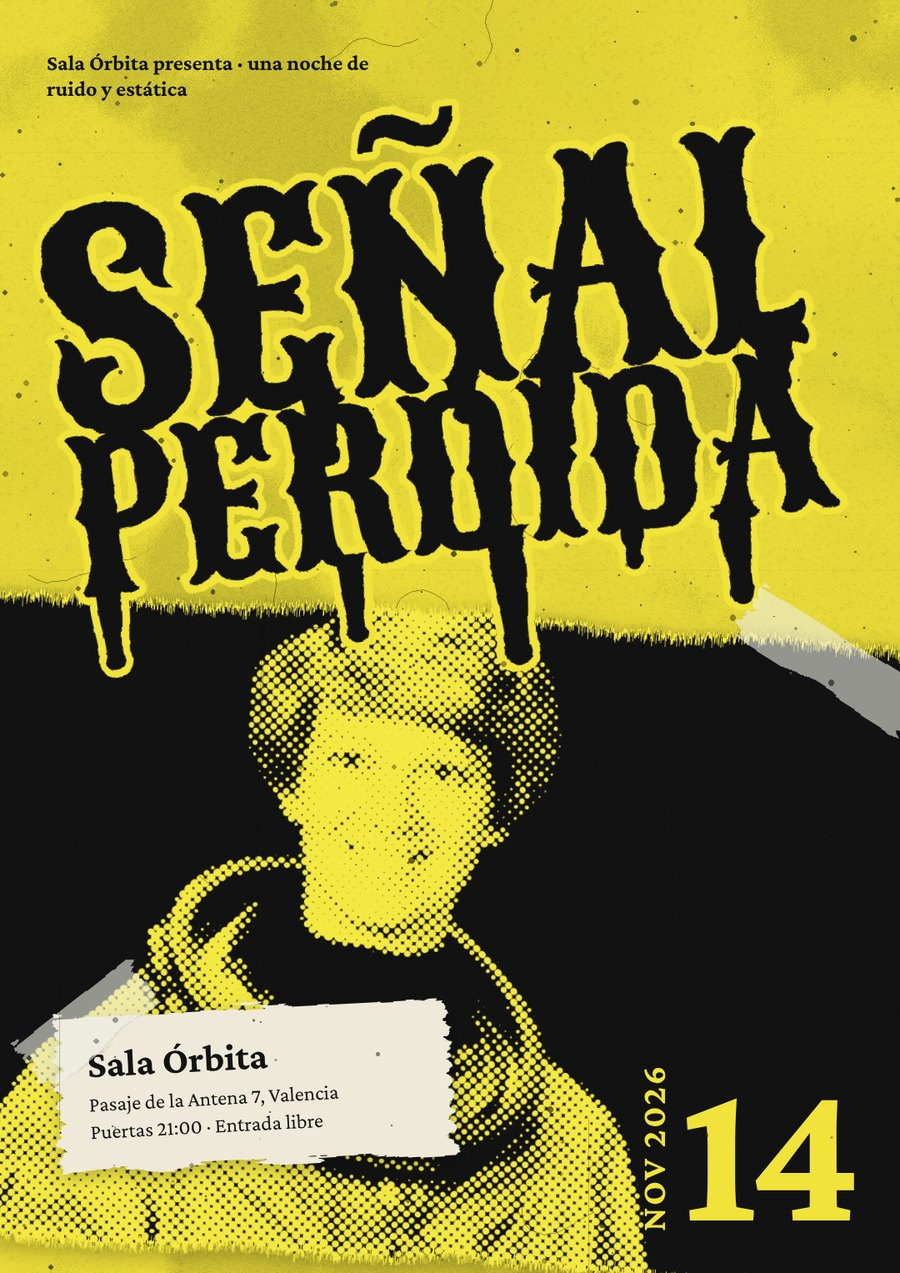
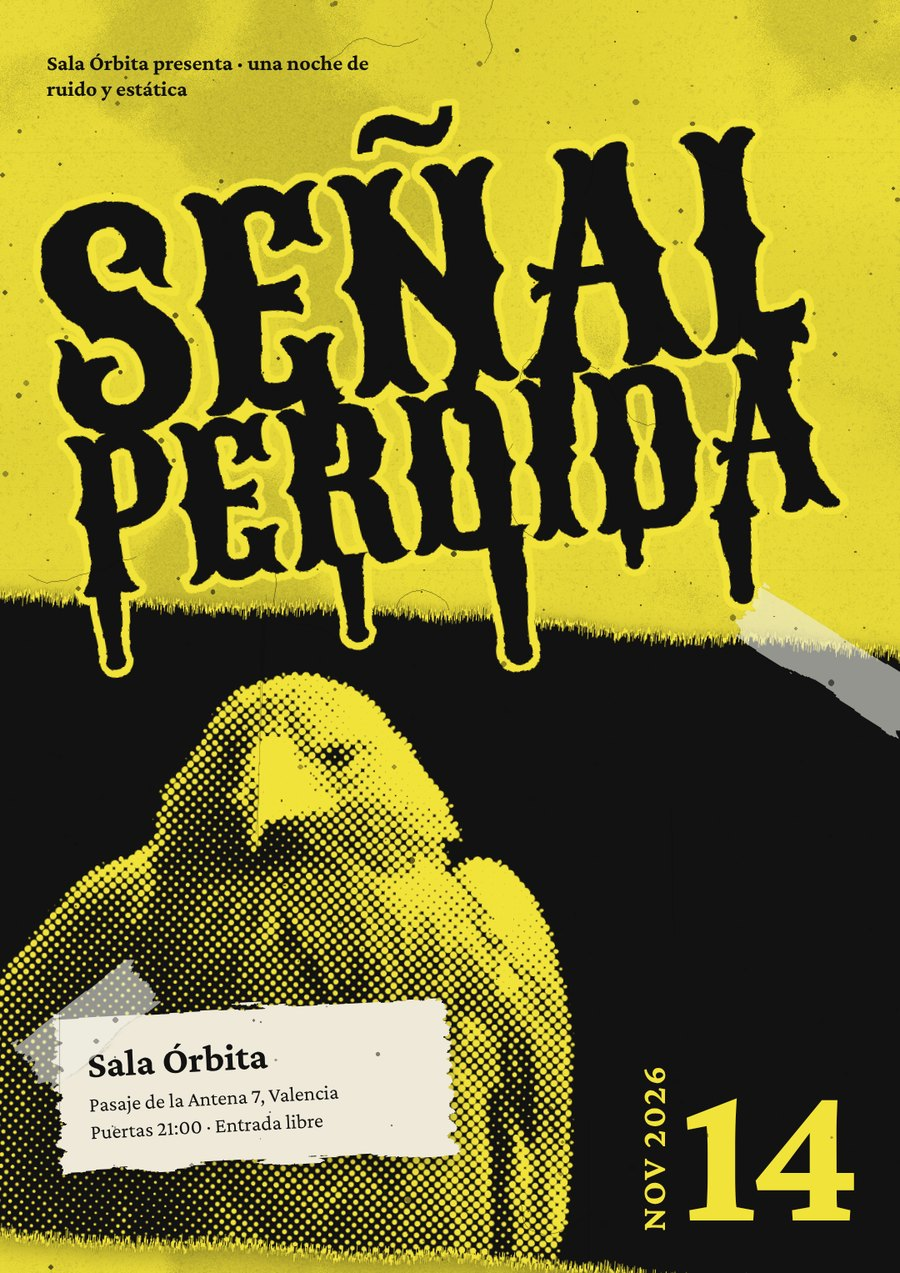
Halftone punk: halftoned eagle instead of the astronaut; refresh previews
All 17 previews and the catalog re-rendered (riso-two-ink picks up the
corrected riso tints).

Claude-Session: https://claude.ai/code/session_016b6qAQEGXJcRPDY2kmFit5

Changed region(s): [[0.0, 0.4595, 0.7467, 1.0]]

diff --git a/.claude/skills/html-graphics/styles/halftone-punk/example.html b/.claude/skills/html-graphics/styles/halftone-punk/example.html
@@ -140,7 +140,7 @@
 <section class="artboard" data-name="poster">
   <div class="paper"></div><div class="grunge"></div>
   <p class="kicker">Sala Órbita presenta · una noche de ruido y estática</p>
-  <img class="photo" src="assets/astro-torn.png" alt="">
+  <img class="photo" src="assets/eagle-torn.png" alt="">
   <img class="title" src="assets/senal-title.svg" alt="Señal perdida">
   <div class="tape t1"></div>
   <div class="scrap"><b>Sala Órbita</b><span>Pasaje de la Antena 7, Valencia<br>Puertas 21:00 · Entrada libre</span></div>

diff --git a/.claude/skills/html-graphics/styles/README.md b/.claude/skills/html-graphics/styles/README.md
@@ -60,11 +60,21 @@ One paragraph: what the style is, where it comes from, why it works.
 <!-- catalog:start -->
 | Style | Family | Mood | Fits | Preview |
 |---|---|---|---|---|
+| [Art Deco](art-deco/style.md) | ornamental | glamorous, elegant, celebratory, confident, nocturnal | galas and balls, hotels and bars, anniversaries and centenaries, premium launches, jazz and cabaret, New Year's parties, theatre and cinema, spirits and cocktails | [preview](art-deco/preview.jpg) |
+| [Art Nouveau](art-nouveau/style.md) | ornamental | organic, ornate, romantic, botanical, warm, nostalgic | garden and flower shows, animal and pet shows, tea, perfume and wine, theatre and opera, book fairs, craft festivals, cafés and patisseries | [preview](art-nouveau/preview.jpg) |
+| [Bauhaus constructivist](bauhaus-constructivist/style.md) | modernist | bold, dynamic, urgent, rational, utopian | film festivals and cinemas, design and architecture events, lectures and conferences, theatre, museum shows, activist and civic campaigns, avant-garde music | [preview](bauhaus-constructivist/preview.jpg) |
+| [Brutalist](brutalist/style.md) | digital | raw, confrontational, loud, structural, deadpan | noise, techno and industrial nights, architecture and design talks, hackathons and tech meetups, independent publishers, art-school shows, streetwear drops | [preview](brutalist/preview.jpg) |
+| [Collage scrapbook](collage-scrapbook/style.md) | print-era | playful, handmade, curious, chaotic, warm, diy | zine and small-press fairs, indie gigs, craft and maker events, bookshops and libraries, kids' workshops, community fundraisers, editorial openers, school and club events | [preview](collage-scrapbook/preview.jpg) |
 | [Editorial cover with depth](editorial-depth/style.md) | editorial | moody, cinematic, premium, intimate, serious | magazine and zine covers, album covers, film and theatre posters, exhibition key art, portrait-led campaigns | [preview](editorial-depth/preview.jpg) |
 | [Halftone punk](halftone-punk/style.md) | print-era | loud, gritty, rebellious, eerie, energetic | gigs, punk and garage nights, horror and cult film screenings, skate and DIY events, record releases | [preview](halftone-punk/preview.jpg) |
+| [Illustrated screen-print](illustrated-screenprint/style.md) | print-era | warm, crafted, witty, folksy, characterful | folk, blues, jazz and roots gigs, food and drink festivals, breweries and coffee, outdoor and nature events, markets and fairs, bookshops, community events | [preview](illustrated-screenprint/preview.jpg) |
 | [Neon horror](neon-horror/style.md) | genre | spooky, campy, loud, nocturnal, fun | Halloween parties, horror screenings, haunted events, metal and goth nights, game nights | [preview](neon-horror/preview.jpg) |
 | [Photocopy zine](photocopy-zine/style.md) | print-era | raw, literary, underground, austere, handmade | zines, small presses, photography and art events, punk and post-punk gigs, poetry nights, indie labels | [preview](photocopy-zine/preview.jpg) |
+| [Psychedelic 60s](psychedelic-60s/style.md) | pop | hypnotic, liquid, loud, euphoric, dense | concerts and dance nights, festivals, record and tape releases, light shows, art openings, record and vintage fairs, craft drink labels | [preview](psychedelic-60s/preview.jpg) |
+| [Rave acid](rave-acid/style.md) | digital | loud, hypnotic, technical, nocturnal, euphoric | acid house, techno and rave nights, warehouse parties, club residencies, electronic releases, audio and synth meetups, late-night festivals | [preview](rave-acid/preview.jpg) |
+| [Retro 70s](retro-70s/style.md) | pop | warm, groovy, nostalgic, friendly, mellow | coffee, food and drink, soul, funk and disco nights, record fairs, vintage and thrift markets, brunches and daytime parties, craft beer, surf and skate shops | [preview](retro-70s/preview.jpg) |
 | [Riso two-ink](riso-two-ink/style.md) | print-era | indie, warm, grainy, playful, underground | club nights, techno and experimental music, zines, small festivals, bookshops, indie brands | [preview](riso-two-ink/preview.jpg) |
 | [Sticker cut-out](sticker-cutout/style.md) | pop | bold, playful, confident, social, loud | club and party nights, DJ lineups, festivals, fashion drops, social campaigns, sports | [preview](sticker-cutout/preview.jpg) |
 | [Swiss International](swiss-international/style.md) | modernist | rational, clean, confident, cultural, calm | concert series, museums and exhibitions, architecture, tech and science events, annual reports, institutions | [preview](swiss-international/preview.jpg) |
+| [Y2K chrome](y2k-chrome/style.md) | digital | glossy, futurist, playful, weightless, synthetic | club nights and New Year's parties, pop and trance releases, fashion and beauty drops, tech and gaming launches, Y2K revival merch | [preview](y2k-chrome/preview.jpg) |
 <!-- catalog:end -->

diff --git a/.claude/skills/html-graphics/styles/halftone-punk/style.md b/.claude/skills/html-graphics/styles/halftone-punk/style.md
@@ -32,7 +32,7 @@ Rules: two colours plus the scrap. Paper alternatives: hot pink `#ff4f9a`, safet
 
 ## Imagery
 
-- A subject with a strong silhouette; cut out and flattened on black reads as a ghost: `treat.py halftone cut.png -o ht.png --flatten '#000000' --width 1600 --cell 12 --invert --ink '#f2e33a' --paper '#121212' --levels .08,.85`, then `treat.py torn ht.png -o torn.png --edges top,bottom --depth 70 --rim 10 --rim-color '#f2e33a'`.
+- A subject with a strong silhouette; cut out and flattened on black reads as a ghost: `treat.py halftone cut.png -o ht.png --flatten '#000000' --width 1600 --cell 12 --invert --ink '#f2e33a' --paper '#121212' --levels .08,.85` (push the white point down, e.g. `.02,.42`, for a dark subject like the example's eagle), then `treat.py torn ht.png -o torn.png --edges top,bottom --depth 70 --rim 10 --rim-color '#f2e33a'`.
 - Without a cut-out, halftone the whole photo with dark dots on the paper colour.
 
 ## Texture
